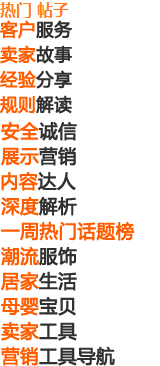
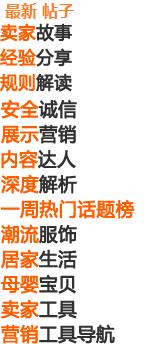
最终版

diff --git a/resources/views/home/index/index.blade.php b/resources/views/home/index/index.blade.php
@@ -36,21 +36,30 @@
    
       <div class="hots"> 
    <dl class="hots-title"> 
-    <dt class="word" title=" 热门帖子"></dt> 
+    <dt class="word" title=" 最新帖子"></dt> 
     <dd> 
      <a href="" target="_blank" class="highlight"></a> 
     </dd> 
    </dl> 
    <ul id="hot"> 
+    @foreach($invitation as $k=>$v)
     <li class="hot-list">
      <div class="hot"> 
-      <div class="title"> 
-       <h3> <a href="http://shuyuan.taobao.com/?spm=a2e1t.8741129.a214tr8.17.5d25304ciYkkIB#!/knowledge/detail?id=Wz&amp;targetType=text" target="_blank" title="猜你喜欢全新升级，解码全新手淘首页流量玩法">猜你喜欢全新升级，解码全新手淘首页流量玩法</a></h3> 
-      </div> 
-      <p class="detail">随着手淘版块的不断变更，如何抓住推荐场景的流量对于商家来说将越来越重要。直钻推广猜你喜欢全新升级，为您带来全新手淘首页流量玩法</p> 
-      <p class="time">发表于 2018-06-1510:40</p> 
+      <a href="/note/{{$v->invitation_id}}">
+        <h3>
+          {{$v->ititle}}
+        </h3>
+      </a>
+      <a href="/user/{{$v->user->uid}}">
+        <p>发布人: {{$v->user->uname}}</p>
+      </a>
+      <a href="/list/{{$v->forum->forum_id}}">
+        <p>发表板块:{{$v->forum->forum_name}}</p>
+      </a>
+      <p >发表时间:{{$v->created_at}}</p> 
      </div> 
-     </li> 
+     </li>
+     @endforeach 
    </ul> 
   </div>
 </div>  

diff --git a/app/Http/Controllers/Home/UserinfoController.php b/app/Http/Controllers/Home/UserinfoController.php
@@ -85,8 +85,12 @@ class UserinfoController extends Controller
      */
     public function edit(Request $request, $id)
     {
+        
         $user = User::where('uid','=',$id)->first();
         $homeUserInfo = $request->session()->get('homeUserInfo');
+        if($user->uname != $homeUserInfo){
+            return redirect("user/$id")->with('error','请不要更改他人的资料');
+        }
         return view('home.user.edit',['user'=>$user,'homeUserInfo'=>$homeUserInfo]);
     }
 
@@ -141,6 +145,10 @@ class UserinfoController extends Controller
     public function pic(Request $request, $id)
     {
         $user = User::where('uid','=',$id)->first();
+        $homeUserInfo = $request->session()->get('homeUserInfo');
+        if($user->uname != $homeUserInfo){
+            return redirect("user/$id")->with('error','请不要更改他人的资料');
+        }
         return view('home.user.pic',['user'=>$user]);
     }
     //文件上传方法
@@ -178,6 +186,10 @@ class UserinfoController extends Controller
     public function password(Request $request, $id)
     {
         $user = User::where('uid','=',$id)->first();
+        $homeUserInfo = $request->session()->get('homeUserInfo');
+        if($user->uname != $homeUserInfo){
+            return redirect("user/$id")->with('error','请不要更改他人的资料');
+        }
         return view('home.user.password',['user'=>$user]);
     }
 }    

diff --git a/app/Http/Controllers/Home/PostController.php b/app/Http/Controllers/Home/PostController.php
@@ -64,11 +64,18 @@ class PostController extends Controller
      * @param  int  $id
      * @return \Illuminate\Http\Response
      */
-    public function show($id)
+    public function show(Request $request,$id)
     {
-        $data=DB::table('forums')->where('forum_id',$id)->first();
-        $data2=DB::table('forums')->where('forum_id',$data->pid)->first();
-        return view('home.post.index',['data'=>$data,'data2'=>$data2]);
+        $homeFlag = $request->session()->get('homeFlag');
+        // dd($homeFlag);
+        if($homeFlag){
+            $data=DB::table('forums')->where('forum_id',$id)->first();
+            $data2=DB::table('forums')->where('forum_id',$data->pid)->first();
+            return view('home.post.index',['data'=>$data,'data2'=>$data2]);
+        }else{
+           return  redirect("/list/$id")->with('error','请先去登录');
+        }
+        
     }
 
     /**

diff --git a/app/Http/Controllers/Home/HomeController.php b/app/Http/Controllers/Home/HomeController.php
@@ -7,6 +7,7 @@ use Illuminate\Http\Request;
 use App\Http\Requests;
 use App\Http\Controllers\Controller;
 use DB;
+use App\Models\Invitation;
 
 class HomeController extends Controller
 {
@@ -21,8 +22,9 @@ class HomeController extends Controller
        $carousel = DB::table('carousel')->where('isshow', 1)->get();
        //传输公告数据
        $announcements = DB::table('announcements')->where('announcement_status',0)->first();
-       //查询热门帖子
-       return view('home.index.index',['carousel'=>$carousel,'announcements'=>$announcements]);
+       //查询最新发布帖子
+       $invitation= Invitation::offset(0)->limit(3)->orderBy('created_at','desc')->get();
+       return view('home.index.index',['carousel'=>$carousel,'announcements'=>$announcements,'invitation'=>$invitation]);
     }
 
     /**

diff --git a/resources/views/home/layout/index.blade.php b/resources/views/home/layout/index.blade.php
@@ -71,8 +71,7 @@
                                 <div class="collapse navbar-collapse" id="bs-example-navbar-collapse-1">
                                     <ul class="nav navbar-nav">
                                         <li><a class="active" href="/">首页</a></li>
-                                        <li><a href="/forum">版块</a></li>
-                                        <li><a href="/charts">排行榜</a></li>                            
+                                        <li><a href="/forum">版块</a></li>                        
                                         <li><a href="/process">意见与反馈</ a></li>
                                     </ul>   
                                     <div class="clearfix"> </div>

diff --git a/app/Http/routes.php b/app/Http/routes.php
@@ -23,8 +23,6 @@ Route::get('/logout','Home\LoginController@logout');
 Route::resource('/login','Home\LoginController');
 //问题与反馈
 Route::resource('/process','Home\ProcessController');
-//排行榜
-Route::resource('/charts','Home\ChartsController');
 //发帖
 Route::resource('/post','Home\PostController');
 
